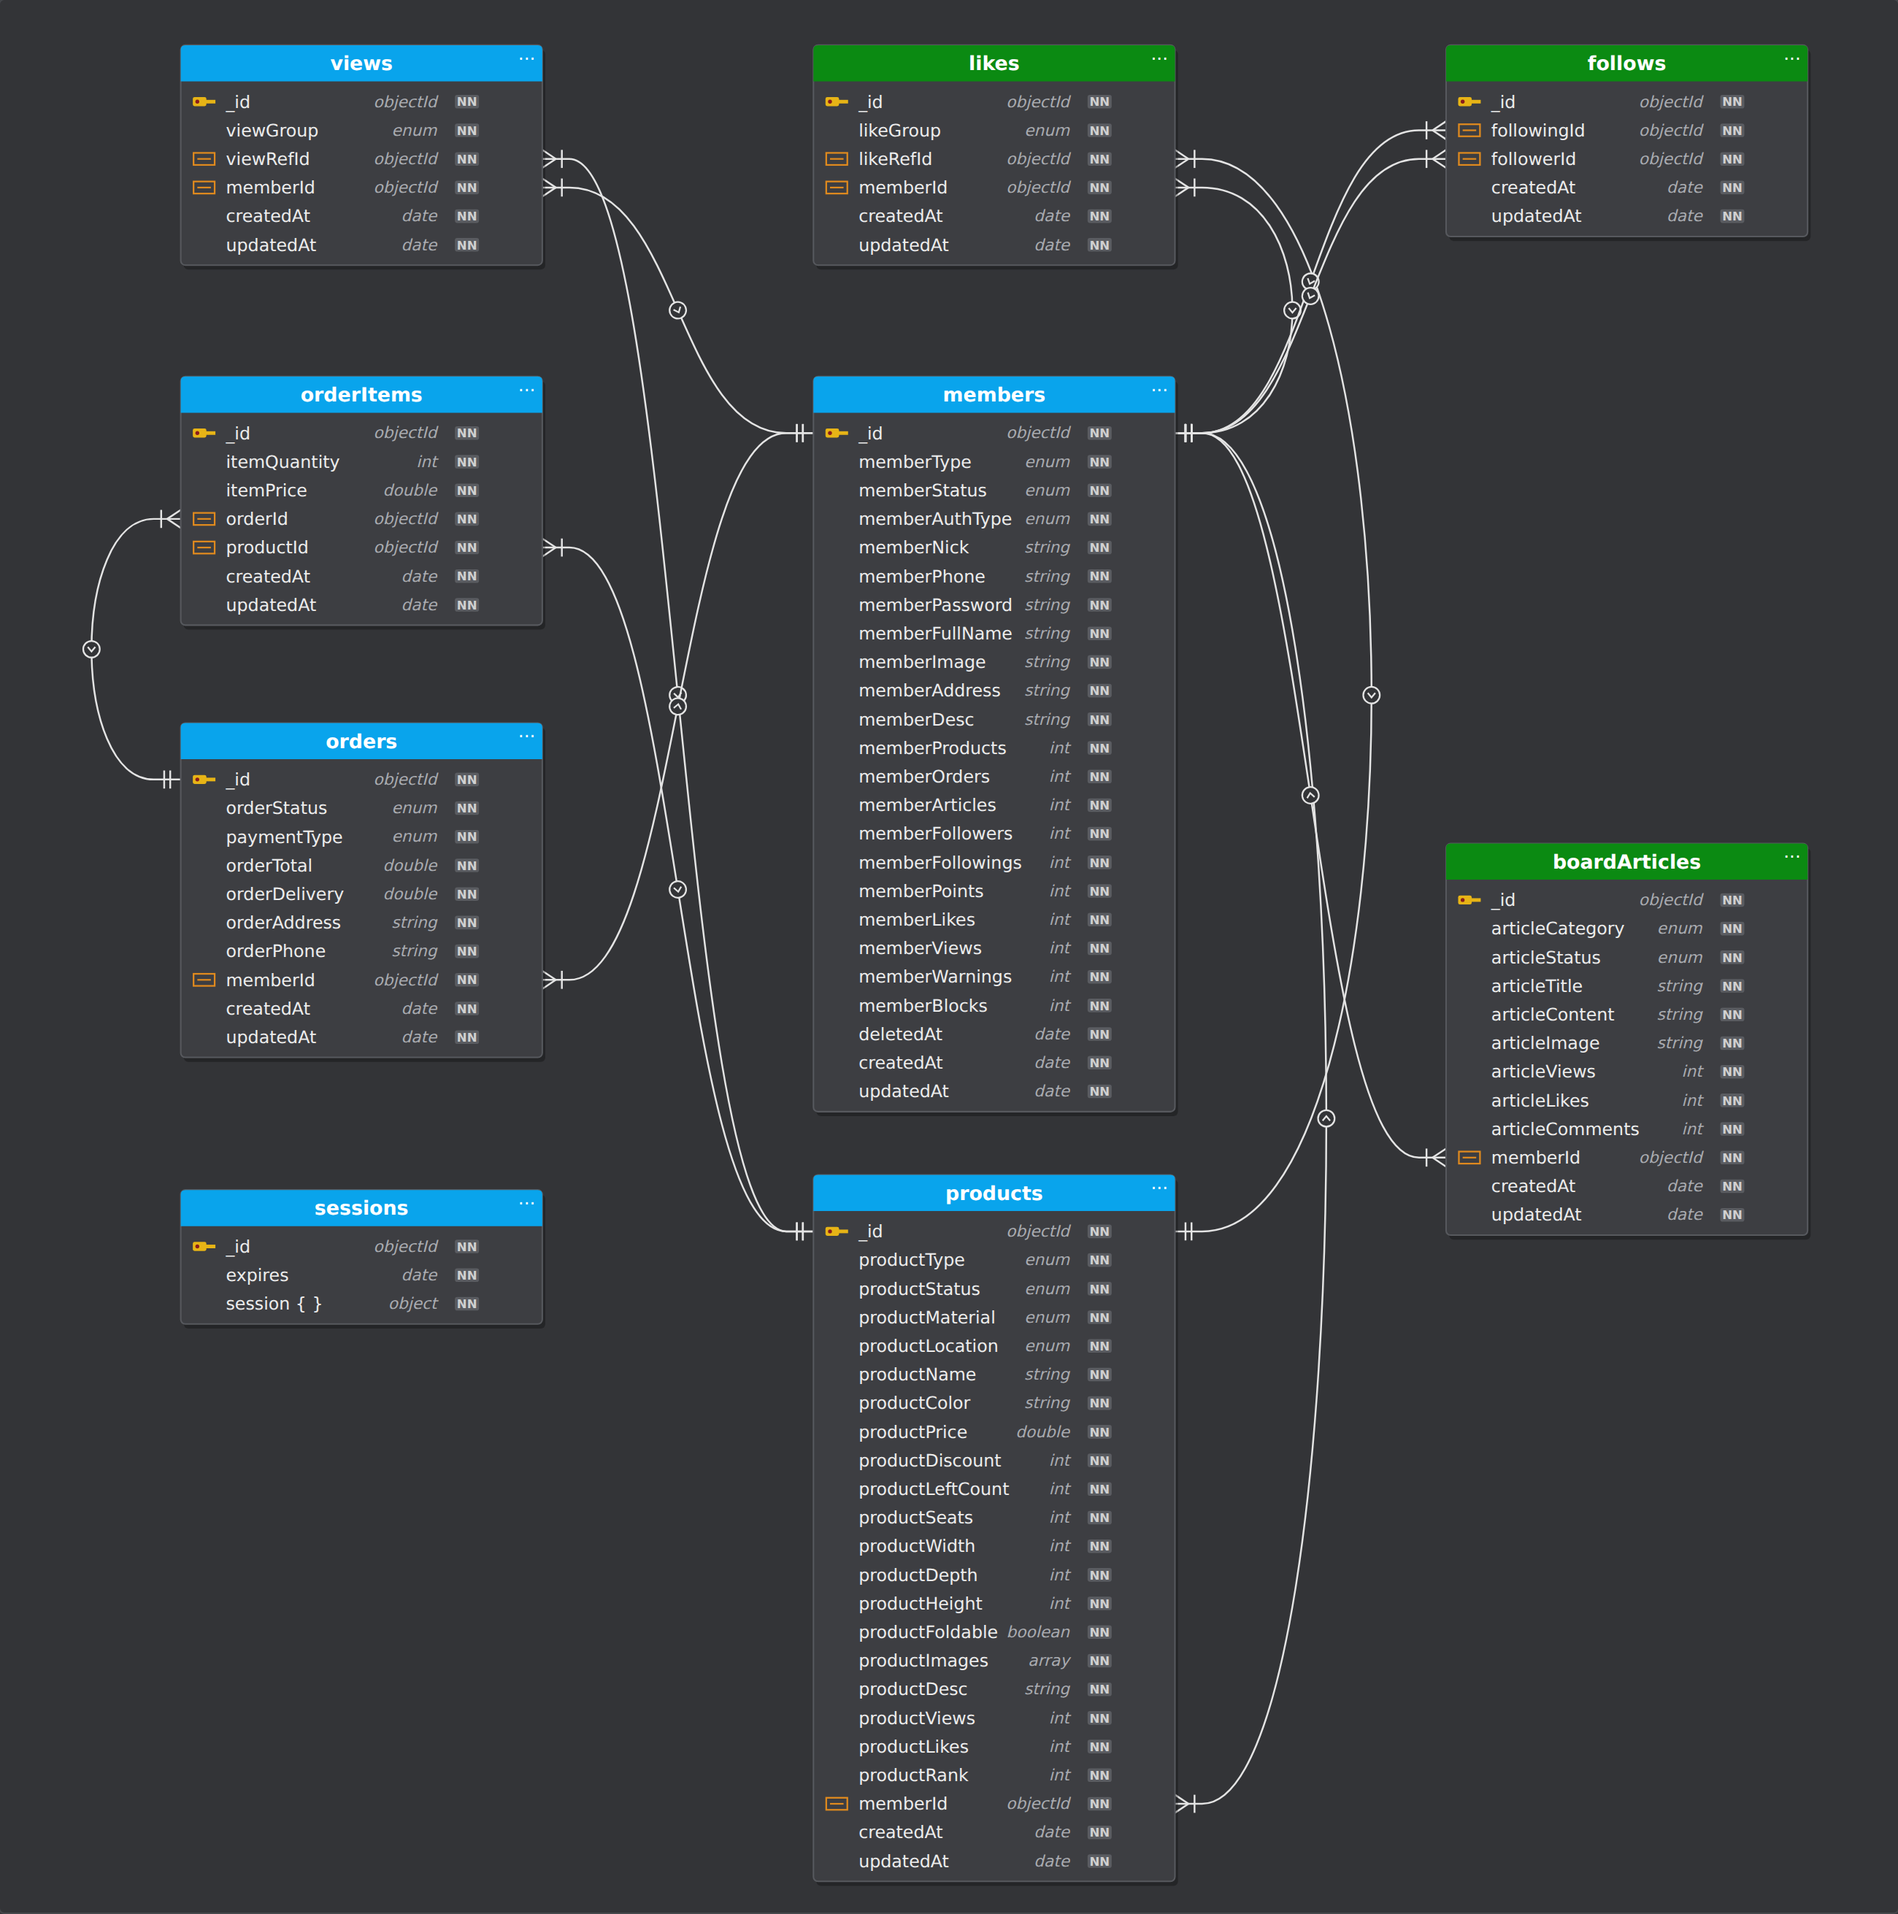
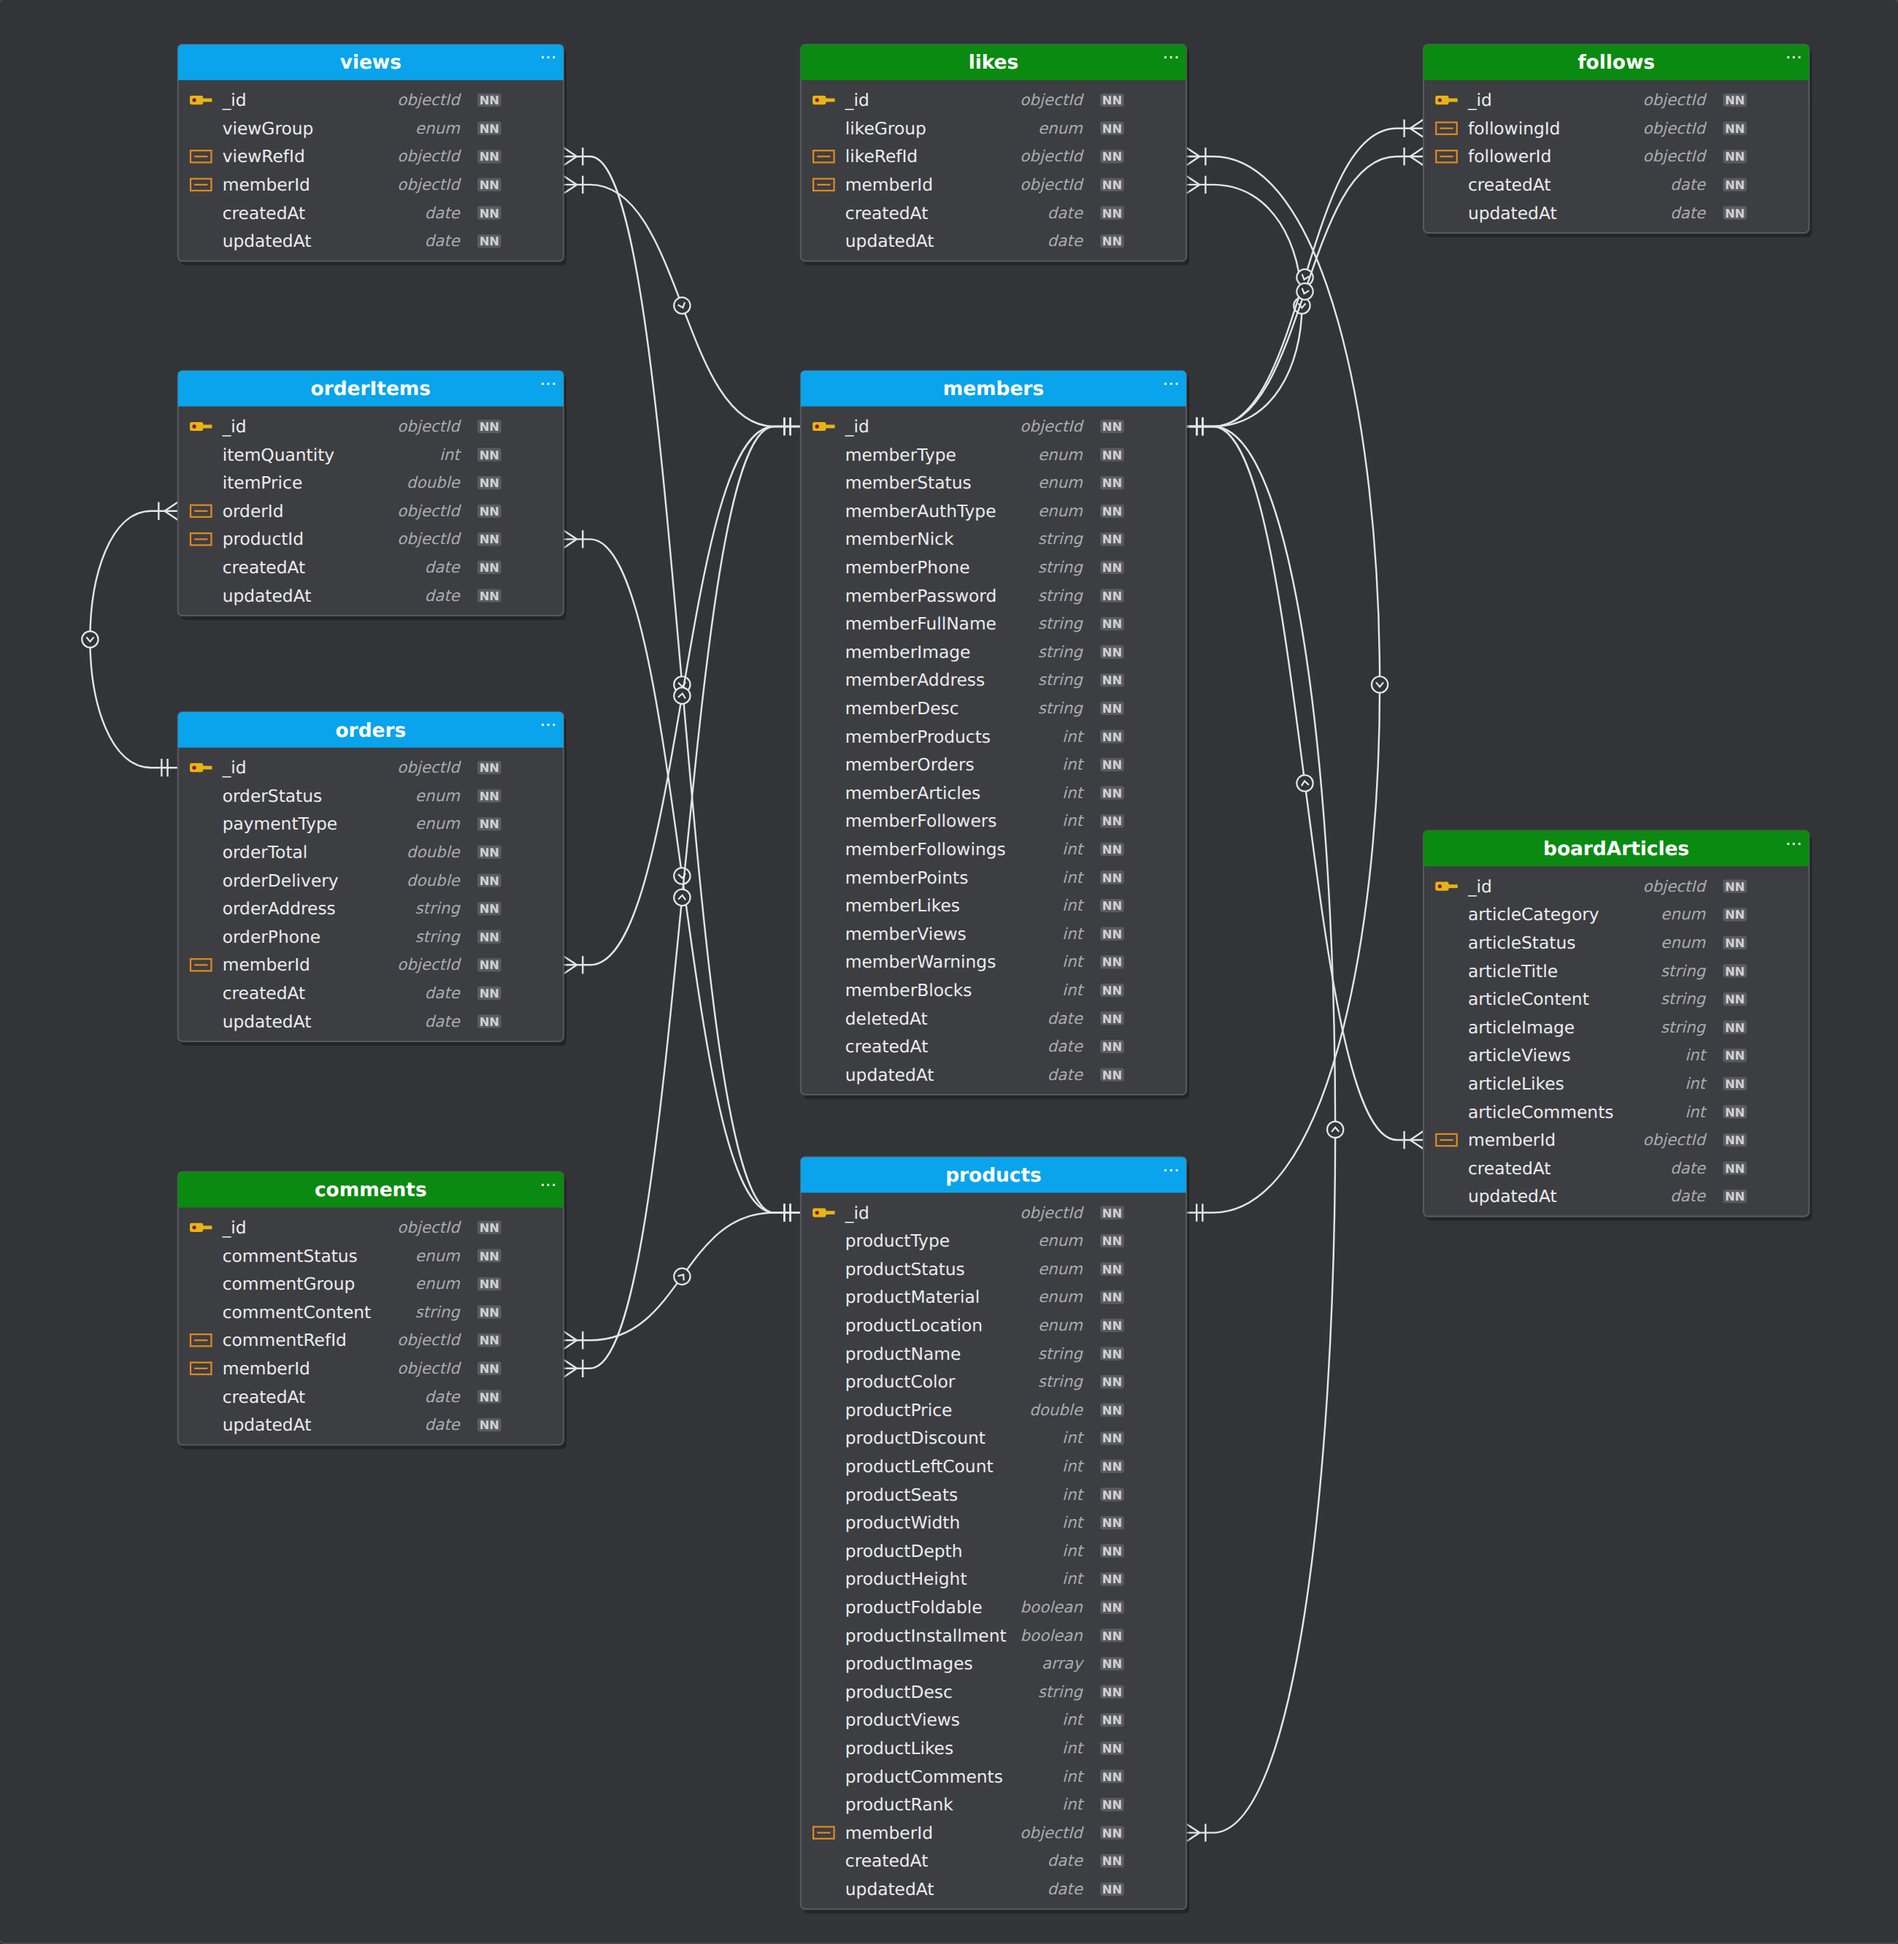
docs: add comments to ER diagram, drop sessions (JWT auth)
Claude-Session: https://claude.ai/code/session_012Y52xnZQBVU9erEaFEzLZA

diff --git a/docs/er-diagram.html b/docs/er-diagram.html
@@ -44,7 +44,7 @@
     border-radius: 4px;
     background: var(--bg);
   }
-  #er { display: block; min-width: 1260px; width: 100%; height: auto; }
+  #er { display: block; min-width: 1280px; width: 100%; height: auto; }
   #er text { font-family: "Open Sans", "Segoe UI", system-ui, sans-serif; }
   .t-title { font-size: 13px; font-weight: 700; fill: #fff; }
   .t-field { font-size: 11.5px; fill: var(--text); }
@@ -67,13 +67,13 @@
 </header>
 
 <div class="canvas-wrap">
-  <svg id="er" xmlns="http://www.w3.org/2000/svg" viewBox="0 0 1260 1270" role="img" aria-label="Yumshoq mebel do'koni ER diagrammasi"></svg>
+  <svg id="er" xmlns="http://www.w3.org/2000/svg" viewBox="0 0 1280 1310" role="img" aria-label="Yumshoq mebel do'koni ER diagrammasi"></svg>
 </div>
-<footer>Polimorf bog'lanishlar: <code>viewRefId</code> va <code>likeRefId</code> guruh maydoniga qarab (<code>PRODUCT</code> / <code>ARTICLE</code> / <code>MEMBER</code>) turli kolleksiyaga ishora qiladi; diagrammada asosiy holat — <code>products</code> ko'rsatilgan.</footer>
+<footer>Autentifikatsiya JWT token orqali (<code>Authorization: Bearer &lt;accessToken&gt;</code>): token bazada saqlanmaydi, shuning uchun <code>sessions</code> kolleksiyasi yo'q. Polimorf bog'lanishlar: <code>viewRefId</code>, <code>likeRefId</code> va <code>commentRefId</code> guruh maydoniga qarab (<code>PRODUCT</code> / <code>ARTICLE</code> / <code>MEMBER</code>, izohda yana <code>COMMENT</code>) turli kolleksiyaga ishora qiladi; diagrammada asosiy holat — <code>products</code> ko'rsatilgan.</footer>
 
 <script>
 const BLUE = '#09a4ec', GREEN = '#0b8a12';
-const W = 240, HEAD = 24, ROW = 19;
+const W = 260, HEAD = 24, ROW = 19;
 
 // [name, type, flag]  flag: 'pk' | 'fk' | ''
 const tables = {
@@ -93,8 +93,9 @@ const tables = {
     ['_id','objectId','pk'], ['orderStatus','enum'], ['paymentType','enum'], ['orderTotal','double'],
     ['orderDelivery','double'], ['orderAddress','string'], ['orderPhone','string'],
     ['memberId','objectId','fk'], ['createdAt','date'], ['updatedAt','date'] ] },
-  sessions: { x: 120, y: 790, color: BLUE, fields: [
-    ['_id','objectId','pk'], ['expires','date'], ['session { }','object'] ] },
+  comments: { x: 120, y: 790, color: GREEN, fields: [
+    ['_id','objectId','pk'], ['commentStatus','enum'], ['commentGroup','enum'], ['commentContent','string'],
+    ['commentRefId','objectId','fk'], ['memberId','objectId','fk'], ['createdAt','date'], ['updatedAt','date'] ] },
   members: { x: 540, y: 250, color: BLUE, fields: [
     ['_id','objectId','pk'], ['memberType','enum'], ['memberStatus','enum'], ['memberAuthType','enum'],
     ['memberNick','string'], ['memberPhone','string'], ['memberPassword','string'],
@@ -106,8 +107,8 @@ const tables = {
     ['_id','objectId','pk'], ['productType','enum'], ['productStatus','enum'], ['productMaterial','enum'],
     ['productLocation','enum'], ['productName','string'], ['productColor','string'], ['productPrice','double'],
     ['productDiscount','int'], ['productLeftCount','int'], ['productSeats','int'], ['productWidth','int'],
-    ['productDepth','int'], ['productHeight','int'], ['productFoldable','boolean'], ['productImages','array'],
-    ['productDesc','string'], ['productViews','int'], ['productLikes','int'], ['productRank','int'],
+    ['productDepth','int'], ['productHeight','int'], ['productFoldable','boolean'], ['productInstallment','boolean'], ['productImages','array'],
+    ['productDesc','string'], ['productViews','int'], ['productLikes','int'], ['productComments','int'], ['productRank','int'],
     ['memberId','objectId','fk'], ['createdAt','date'], ['updatedAt','date'] ] },
   boardArticles: { x: 960, y: 560, color: GREEN, fields: [
     ['_id','objectId','pk'], ['articleCategory','enum'], ['articleStatus','enum'], ['articleTitle','string'],
@@ -128,6 +129,8 @@ const links = [
   { from: ['orders','memberId'],      to: ['members','_id'],  fs: 'R', ts: 'L' },
   { from: ['products','memberId'],    to: ['members','_id'],  fs: 'R', ts: 'R', bulge: 110 },
   { from: ['boardArticles','memberId'], to: ['members','_id'], fs: 'L', ts: 'R' },
+  { from: ['comments','commentRefId'], to: ['products','_id'], fs: 'R', ts: 'L' },
+  { from: ['comments','memberId'],     to: ['members','_id'],  fs: 'R', ts: 'L' },
 ];
 
 const NS = 'http://www.w3.org/2000/svg';
@@ -166,9 +169,9 @@ function drawTable(name, t) {
       g.append(el('line', { x1: t.x + 11, y1: cy, x2: t.x + 20, y2: cy, stroke: 'var(--fk)', 'stroke-width': 1.1 }));
     }
     g.append(el('text', { x: t.x + 30, y: cy + 4, class: 't-field' }, fname));
-    g.append(el('text', { x: t.x + 170, y: cy + 3.5, 'text-anchor': 'end', class: 't-type' }, type));
-    g.append(el('rect', { x: t.x + 182, y: cy - 4.5, width: 16, height: 9, rx: 1.5, fill: '#5a5c61' }));
-    g.append(el('text', { x: t.x + 190, y: cy + 3, 'text-anchor': 'middle', class: 't-nn' }, 'NN'));
+    g.append(el('text', { x: t.x + 190, y: cy + 3.5, 'text-anchor': 'end', class: 't-type' }, type));
+    g.append(el('rect', { x: t.x + 202, y: cy - 4.5, width: 16, height: 9, rx: 1.5, fill: '#5a5c61' }));
+    g.append(el('text', { x: t.x + 210, y: cy + 3, 'text-anchor': 'middle', class: 't-nn' }, 'NN'));
   });
   boxes.append(g);
 }

diff --git a/docs/ER-MODEL.md b/docs/ER-MODEL.md
@@ -334,7 +334,18 @@ OrderItemSchema.index({ orderId: 1, productId: 1 }, { unique: true });
   Nestar'dagi kabi `$inc` orqali yangilanadigan denormalizatsiyalangan hisoblagichlar.
 - O'chirish yumshoq (soft delete): `*Status = DELETE` va `deletedAt`.
 
-## 7. Kolleksiyalar (MongoDB)
+## 7. Autentifikatsiya (JWT token)
+
+Nestar'dagi kabi autentifikatsiya **JWT token** orqali ishlaydi, server tomonda sessiya saqlanmaydi:
+
+- `signup` / `login` mutatsiyalari `Member` bilan birga `accessToken` qaytaradi.
+- Token payload'i: `_id`, `memberType`, `memberStatus`, `memberAuthType`, `memberNick`, `memberPhone`, ...
+  (`Nestar-next` → `libs/types/customJwtPayload.ts`).
+- Mijoz har bir so'rovda `Authorization: Bearer <accessToken>` sarlavhasini yuboradi;
+  backend `AuthGuard` / `RolesGuard` tokenni tekshiradi (`memberType` bo'yicha ruxsat).
+- `accessToken` bazaga yozilmaydi (faqat javobda qaytadi), shuning uchun **`sessions` kolleksiyasi yo'q**.
+
+## 8. Kolleksiyalar (MongoDB)
 
 `members`, `products`, `orders`, `orderItems`, `boardArticles`, `comments`, `likes`, `views`,
 `follows`, `notices`, `notifications`
